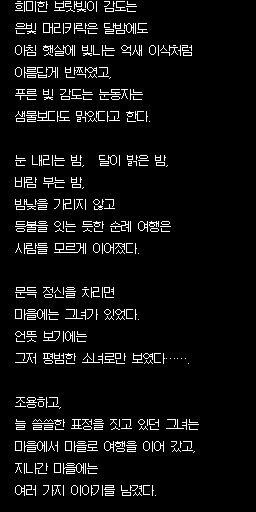
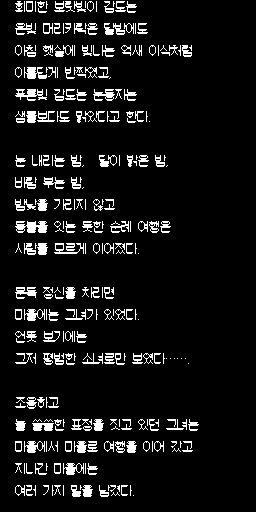
fix(ps1-ed3+4): 내레이션 낱말 손질 · 쉼표 재검토 · 가로획 굵히기
**낱말**(유저 확정) — `조용히`→**소박한** · `나날을 보내다`→**나날이 힘쓰다** ·
`전설`→**전승** · `이야기를 남겼다`→**말을 남겼다** · `진실들`→**일들** ·
`두려움과 공포`→**경외와 공포**. 「소녀」와 「불리던」은 유저 판을 그대로 뒀다
(연체수식절의 시제는 한국어에선 과거가 자연스럽다 — 내 「현재형」 지적을 거둔다).

**쉼표를 한국어 규범으로 다시** — 일본어 `、` 는 줄 끝마다 붙지만 우리는 줄바꿈이 이미
쉼표 노릇을 한다 ⇒ 조건절·연결어미 뒤의 것을 덜고(`곳엔,`→`곳엔`), 대조에는 넣었다
(`있었지만`→`있었지만,`).

🔴 **가로획만 한 픽셀 굵힌다.** 오프닝은 게임이 **512×240 모드**라 픽셀이 가로로 절반이고
1px 가로획이 먼저 뭉갠다(「는」의 ㄴ). 글자를 가로 2배로 그리면 한 줄 글자 수가 절반이
되므로(두루마리는 11자) **획만 굵혔다** — 폭을 안 잃고 실제 불편만 없앤다.
⚠ 세로 기둥은 안 건드린다 — **좌우 이웃이 둘 다 있는 픽셀만** 가로획으로 본다.
흰 픽셀 9,228 → 11,532(카드) · 7,763 → 10,945(두루마리).

되읽기 검산 — 19장 전부 통과. 바뀐 섹터 315 → 316.

Claude-Session: https://claude.ai/code/session_01EgUCXD2enNo5ZN1tEqJ2Ai

diff --git a/games/ps1-ed3+4/tools/narration.py b/games/ps1-ed3+4/tools/narration.py
@@ -81,6 +81,25 @@ def _bdf_line(txt, name):
     return m, m.shape[1]
 
 
+def thicken_h(m):
+    """**가로획만** 한 픽셀 굵힌다 (아래로).
+
+    🔴 게임 오프닝은 **512×240 모드**라 픽셀이 가로로 절반이다 — 13×13 글자가 화면에선
+       13 높이 × 6.5 폭으로 보이고, **1px 짜리 가로획이 먼저 뭉갠다**(「는」의 ㄴ, 실측).
+       원본 일본어도 같은 조건이지만 한글은 획이 많아 먼저 드러난다.
+    ⚠ 세로 기둥은 안 건드린다 — 좌우 이웃이 **둘 다** 있는 픽셀만 가로획으로 본다.
+       2px 세로 기둥은 왼쪽 칸에 왼 이웃이 없어 걸리지 않는다.
+    """
+    left = np.zeros_like(m)
+    right = np.zeros_like(m)
+    left[:, 1:] = m[:, :-1]
+    right[:, :-1] = m[:, 1:]
+    horiz = m & left & right
+    out = m.copy()
+    out[1:] |= horiz[:-1]
+    return out
+
+
 def render_line(txt, font):
     if font.startswith("Galmuri"):
         return _bdf_line(txt, font)
@@ -92,7 +111,7 @@ def _ink_top(m):
     return int(ys.min()) if len(ys) else 0
 
 
-def draw_block(lines, w, h, font, align, left, top, pitch, gap):
+def draw_block(lines, w, h, font, align, left, top, pitch, gap, bold_h=False):
     """줄들을 판에 앉힌다 — 빈 줄은 **문단 사이**(gap)로 친다."""
     out = np.zeros((h, w), bool)
     y, over = top, []
@@ -101,6 +120,8 @@ def draw_block(lines, w, h, font, align, left, top, pitch, gap):
             y += gap - pitch
             continue
         m, wid = render_line(ln, font)
+        if bold_h:
+            m = thicken_h(m)
         m = m[_ink_top(m) :]
         x = (w - wid) // 2 if align == "center" else left
         if x < 0 or x + wid > w:
@@ -133,6 +154,7 @@ def build_group(g):
         g["top"],
         g["pitch"],
         g["gap"],
+        g.get("bold_h", False),
     )
     outs = {}
     for t in g["targets"]:
